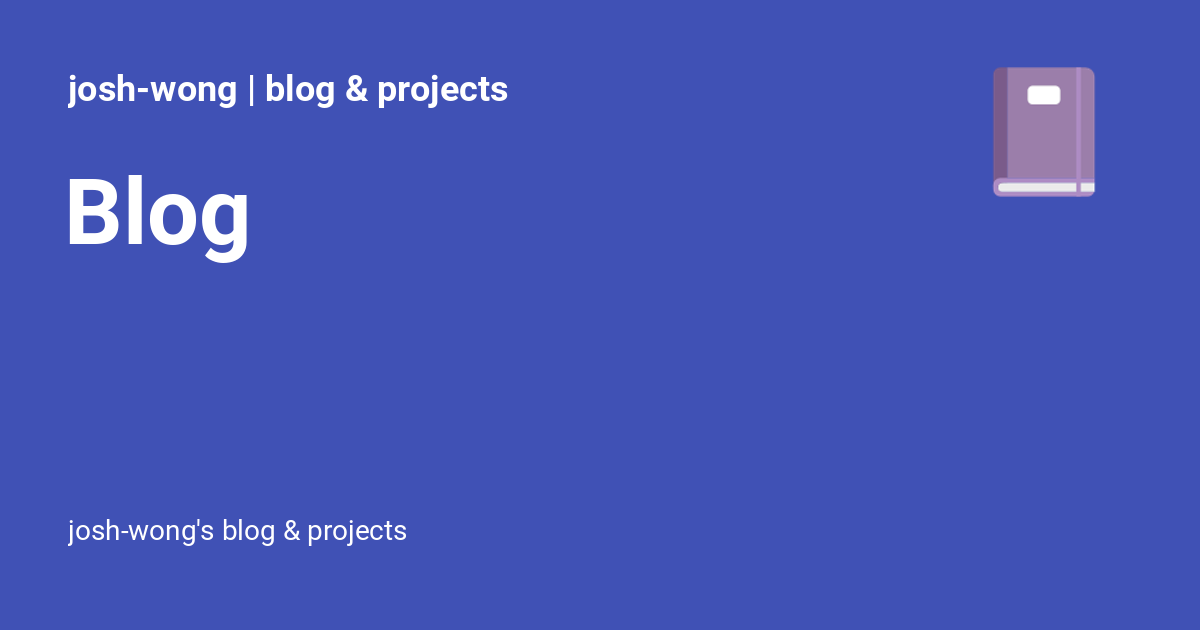
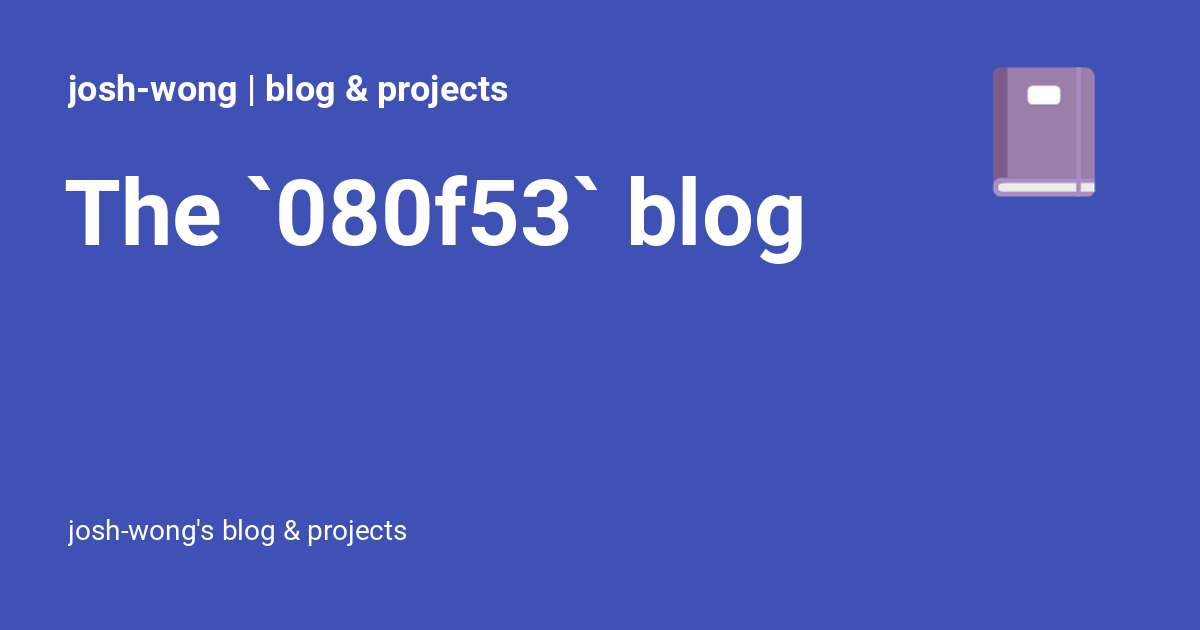
Deployed 85fd870 with MkDocs version: 1.4.2

Changed region(s): [[0.0308, 0.2714, 0.4933, 0.4222], [0.5242, 0.2714, 0.6783, 0.4222]]

diff --git a/blog/index.html b/blog/index.html
@@ -24,7 +24,7 @@
     
     
       
-        <title>Blog - josh-wong | blog & projects</title>
+        <title>The `080f53` blog - josh-wong | blog & projects</title>
       
     
     
@@ -112,7 +112,7 @@
       
         <meta  property="og:type"  content="website" >
       
-        <meta  property="og:title"  content="Blog - josh-wong | blog & projects" >
+        <meta  property="og:title"  content="The `080f53` blog - josh-wong | blog & projects" >
       
         <meta  property="og:description"  content="josh-wong's blog & projects" >
       
@@ -128,7 +128,7 @@
       
         <meta  name="twitter:card"  content="summary_large_image" >
       
-        <meta  name="twitter:title"  content="Blog - josh-wong | blog & projects" >
+        <meta  name="twitter:title"  content="The `080f53` blog - josh-wong | blog & projects" >
       
         <meta  name="twitter:description"  content="josh-wong's blog & projects" >
       
@@ -155,7 +155,7 @@
     <div data-md-component="skip">
       
         
-        <a href="#blog" class="md-skip">
+        <a href="#the-080f53-blog" class="md-skip">
           Skip to content
         </a>
       
@@ -189,7 +189,7 @@
         <div class="md-header__topic" data-md-component="header-topic">
           <span class="md-ellipsis">
             
-              Blog
+              The `080f53` blog
             
           </span>
         </div>
@@ -1196,8 +1196,8 @@
   <div class="md-content" data-md-component="content">
     <div class="md-content__inner">
       <header class="md-typeset">
-        <h1 id="blog">Blog<a class="headerlink" href="#blog" title="Permanent link">&para;</a></h1>
-<p>Thoughts and observations of Josh, a <abbr title="A professional information communicator whose task is to transfer information between two or more parties">technical writer</abbr> in Tokyo🗼🗾</p>
+        <h1 id="the-080f53-blog">The <code>080f53</code> blog<a class="headerlink" href="#the-080f53-blog" title="Permanent link">&para;</a></h1>
+<p>Thoughts and observations of Josh, a <abbr title="A professional information communicator whose task is to transfer information between two or more parties">technical writer</abbr> and <abbr title="The collection of methods relating to creating, sharing, using, and managing the knowledge and information of an organization">knowledge management</abbr> specialist in Tokyo🗼🗾</p>
 <p><img alt="Blog banner - Cherry blossoms along a river" src="assets/assets/images/~blog-banner-light-theme.jpg#only-light" />
 <img alt="Blog banner - Cherry blossoms along a river" src="assets/assets/images/~blog-banner-dark-theme.jpg#only-dark" /></p>
 <!-- The following definitions are courtesy of Wikipedia. -->

diff --git a/index.html b/index.html
@@ -155,7 +155,7 @@
     <div data-md-component="skip">
       
         
-        <a href="#blog" class="md-skip">
+        <a href="#the-080f53-blog" class="md-skip">
           Skip to content
         </a>
       
@@ -1204,13 +1204,10 @@ Redirecting to the [blog](blog/index.md)...
 -->
 <!DOCTYPE html>
 <p><meta charset="utf-8">
-<head>
-  <title>Blog</title>
-</head>
 <meta http-equiv="refresh" content="0; URL=blog">
 <link rel="canonical" href="blog"></p>
-<h1 id="blog">Blog<a class="headerlink" href="#blog" title="Permanent link">&para;</a></h1>
-<p>Thoughts and observations of Josh, a <abbr title="A professional information communicator whose task is to transfer information between two or more parties">technical writer</abbr> in Tokyo🗼🗾</p>
+<h1 id="the-080f53-blog">The <code>080f53</code> blog<a class="headerlink" href="#the-080f53-blog" title="Permanent link">&para;</a></h1>
+<p>Thoughts and observations of Josh, a <abbr title="A professional information communicator whose task is to transfer information between two or more parties">technical writer</abbr> and <abbr title="The collection of methods relating to creating, sharing, using, and managing the knowledge and information of an organization">knowledge management</abbr> specialist in Tokyo🗼🗾</p>
 <p><img alt="Blog banner - Cherry blossoms along a river" src="blog/assets/assets/images/~blog-banner-light-theme.jpg#only-light" />
 <img alt="Blog banner - Cherry blossoms along a river" src="blog/assets/assets/images/~blog-banner-dark-theme.jpg#only-dark" /></p>
 <!-- The following definitions are courtesy of Wikipedia. -->

diff --git a/blog/archive/2022/index.html b/blog/archive/2022/index.html
@@ -1473,7 +1473,7 @@
     <nav class="md-footer__inner md-grid" aria-label="Footer" >
       
         
-        <a href="../../" class="md-footer__link md-footer__link--prev" aria-label="Previous: Blog" rel="prev">
+        <a href="../../" class="md-footer__link md-footer__link--prev" aria-label="Previous: The `080f53` blog" rel="prev">
           <div class="md-footer__button md-icon">
             <svg xmlns="http://www.w3.org/2000/svg" viewBox="0 0 24 24"><path d="M20 11v2H8l5.5 5.5-1.42 1.42L4.16 12l7.92-7.92L13.5 5.5 8 11h12Z"/></svg>
           </div>
@@ -1482,7 +1482,7 @@
               <span class="md-footer__direction">
                 Previous
               </span>
-              Blog
+              The `080f53` blog
             </div>
           </div>
         </a>
